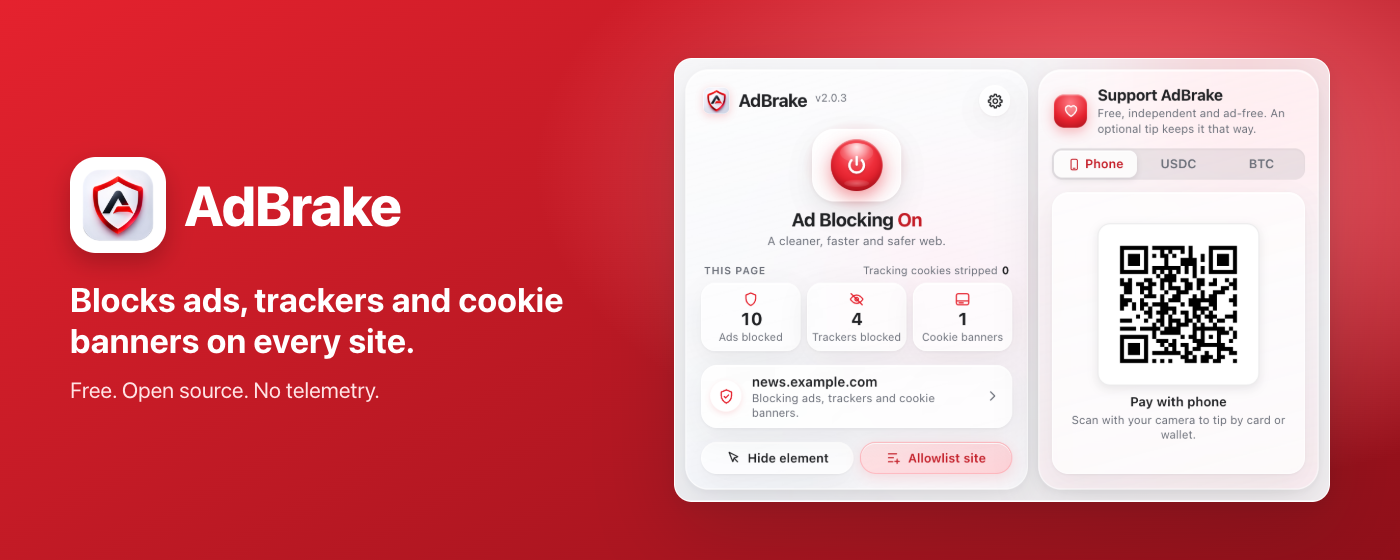
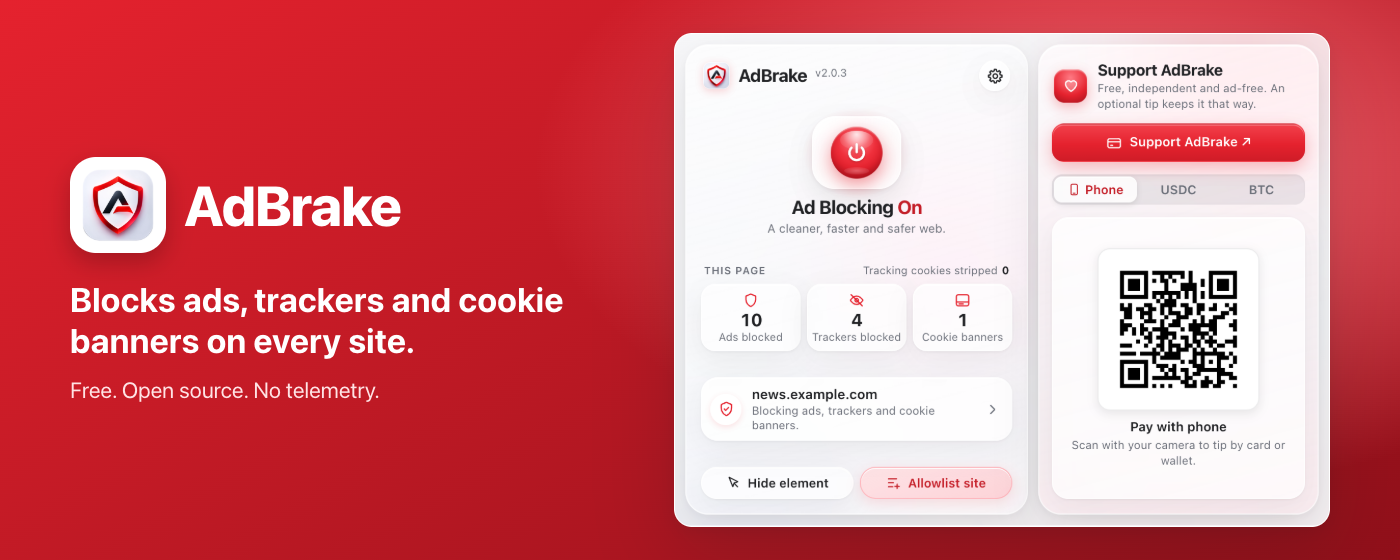
Store images: show the tip button as "Support AdBrake" instead of hiding it
The live popup keeps its card and wallet label; only the store captures relabel it, so the images
name no third-party brand. Shot 5 and shot 3 crops follow the taller support panel.

diff --git a/docs/store/images/src/shot-3-filters-1280x800.html b/docs/store/images/src/shot-3-filters-1280x800.html
@@ -1,1 +1,1 @@
-<!doctype html><html><head><meta charset="utf-8"><link rel="stylesheet" href="style.css"></head><body class=""><div class="wrap"><div class="text "><div class="brand"><img src="icon128.png">AdBrake</div><h1>Hide anything, per site</h1><p class="sub">Click “Hide element”, point at it, done. Turn blocking off for sites you trust.</p><ul class="pts"><li>Point and click to hide an element</li><li>Allow a site with one switch</li><li>Edit your own rules any time</li></ul></div><div class="stage"><div class="stack" style="width:640px;height:687px"><div style="position:absolute;right:0;top:0"><div class="card" style="width:576px;"><div class="bar"><i></i><i></i><i></i><span>AdBrake settings</span></div><div class="crop" style="width:576px;height:583px"><img src="../raw/options-store-light.png" style="width:608px;left:-16px;top:-1198px"></div></div></div><div style="position:absolute;left:-30px;bottom:0"><div class="card" style="width:349px;border-radius:22px;"><div class="crop" style="width:349px;height:132px"><img src="../raw/popup-light.png" style="width:693px;left:-17px;top:-314px"></div></div></div></div></div></div><div class="note">Real capture of AdBrake 2.0.3</div></body></html>
+<!doctype html><html><head><meta charset="utf-8"><link rel="stylesheet" href="style.css"></head><body class=""><div class="wrap"><div class="text "><div class="brand"><img src="icon128.png">AdBrake</div><h1>Hide anything, per site</h1><p class="sub">Click “Hide element”, point at it, done. Turn blocking off for sites you trust.</p><ul class="pts"><li>Point and click to hide an element</li><li>Allow a site with one switch</li><li>Edit your own rules any time</li></ul></div><div class="stage"><div class="stack" style="width:640px;height:687px"><div style="position:absolute;right:0;top:0"><div class="card" style="width:576px;"><div class="bar"><i></i><i></i><i></i><span>AdBrake settings</span></div><div class="crop" style="width:576px;height:583px"><img src="../raw/options-store-light.png" style="width:608px;left:-16px;top:-1198px"></div></div></div><div style="position:absolute;left:-30px;bottom:0"><div class="card" style="width:349px;border-radius:22px;"><div class="crop" style="width:349px;height:169px"><img src="../raw/popup-light.png" style="width:693px;left:-17px;top:-338px"></div></div></div></div></div></div><div class="note">Real capture of AdBrake 2.0.3</div></body></html>

diff --git a/docs/store/images/src/shot-5-support-1280x800.html b/docs/store/images/src/shot-5-support-1280x800.html
@@ -1,1 +1,1 @@
-<!doctype html><html><head><meta charset="utf-8"><link rel="stylesheet" href="style.css"></head><body class=""><div class="wrap"><div class="text "><div class="brand"><img src="icon128.png">AdBrake</div><h1>Free for everyone</h1><p class="sub">Every feature is free, with no ads of its own and no upsell. If it saves you time, an optional tip helps keep it going.</p><ul class="pts"><li>Nothing is locked behind a payment</li><li>Tips are optional; reminders can be turned off</li><li>Filter lists update by themselves</li></ul></div><div class="stage"><div class="card" style="width:383px;border-radius:22px;"><div class="crop" style="width:383px;height:569px"><img src="../raw/popup-light-usdc.png" style="width:869px;left:-477px;top:-8px"></div></div></div></div><div class="note">Real capture of AdBrake 2.0.3</div></body></html>
+<!doctype html><html><head><meta charset="utf-8"><link rel="stylesheet" href="style.css"></head><body class=""><div class="wrap"><div class="text "><div class="brand"><img src="icon128.png">AdBrake</div><h1>Free for everyone</h1><p class="sub">Every feature is free, with no ads of its own and no upsell. If it saves you time, an optional tip helps keep it going.</p><ul class="pts"><li>Nothing is locked behind a payment</li><li>Tips are optional; reminders can be turned off</li><li>Filter lists update by themselves</li></ul></div><div class="stage"><div class="card" style="width:344px;border-radius:22px;"><div class="crop" style="width:344px;height:571px"><img src="../raw/popup-light-usdc.png" style="width:781px;left:-429px;top:-7px"></div></div></div></div><div class="note">Real capture of AdBrake 2.0.3</div></body></html>

diff --git a/tools/store_shots.py b/tools/store_shots.py
@@ -9,8 +9,9 @@
    (popup.html, two panels, 630 px wide) as a background tab in the same window, so the popup reads
    the news tab as "the current tab" and shows its real counts. Captures the popup (light and
    dark) and the settings page (as it is, a store variant, and dark) at 2x. Store variants show
-   no third-party names: the page's host reads news.example.com, the popup's tip button (its
-   label names payment wallets) and settings rows naming other companies are hidden.
+   no third-party names: the page's host reads news.example.com, the popup's tip button reads
+   "Support AdBrake" (its real label names payment wallets) and settings rows naming other
+   companies are hidden.
 3. Writes the composition pages (docs/store/images/src/make_pages.py) and renders them into
    1280x800 screenshots, a 440x280 small promo tile and a 1400x560 marquee (same Chrome).
    --compose-only skips step 1-2 and reuses the captures in <out>/raw/.
@@ -84,8 +85,8 @@ def capture(out_raw, site):
 
         # 2. Popup as a background tab of the same window: tabs.query({active, currentWindow}) = news tab.
         # The popup is two panels side by side (controls | Support AdBrake), 630 px wide.
-        # Store variant: the page's host name is shown as news.example.com and the tip button, whose
-        # label names payment wallets, is hidden with its row, so the images name no third-party brand
+        # Store variant: the page's host name is shown as news.example.com and the tip button's label,
+        # which names payment wallets, reads "Support AdBrake ↗" instead, so the images name no third-party brand
         # (docs/store/review-risks.md). The counts are what the popup really counted on that page.
         for dark in (False, True):
             tid = cdp.send("Target.createTarget", {"url": "about:blank", "background": True})["targetId"]
@@ -98,12 +99,10 @@ def capture(out_raw, site):
             info = cdp.evaluate(sid, "['g-ads','g-trackers','g-banners','g-cookies','site-host']"
                                      ".map(id => id + '=' + document.getElementById(id).textContent)")
             print("popup", "dark" if dark else "light", info)
-            # Hide the whole tip-button row (not just the button), so the panel closes up with no gap.
+            # Keep the tip button (same card icon) but give it a brand-free label in the captures only.
             cdp.evaluate(sid, """(() => {
                 document.getElementById('site-host').textContent = 'news.example.com';
-                const s = document.createElement('style');
-                s.textContent = '#support-revolut { display: none !important; }';
-                document.head.appendChild(s);
+                document.querySelector('#support-link span').textContent = 'Support AdBrake \u2197';
             })()""")
             time.sleep(0.8)
             box = cdp.evaluate(sid, "(() => { const r = document.body.getBoundingClientRect();"

diff --git a/docs/store/images/src/make_pages.py b/docs/store/images/src/make_pages.py
@@ -91,7 +91,7 @@ page("shot-3-filters-1280x800.html", '<div class="wrap">' + text(
     ["Point and click to hide an element", "Allow a site with one switch", "Edit your own rules any time"]) +
     '<div class="stage"><div class="stack" style="width:640px;height:%dpx">' % (34 + (y1 - y0) * s3 + 70) +
     '<div style="position:absolute;right:0;top:0">' + crop("options-store-light.png", y0, y1, s3, bar="AdBrake settings") + '</div>'
-    '<div style="position:absolute;left:-30px;bottom:0">' + pcrop("popup-light.png", 16, 286, 334, 406, 1.1) + '</div>'
+    '<div style="position:absolute;left:-30px;bottom:0">' + pcrop("popup-light.png", 16, 308, 334, 462, 1.1) + '</div>'
     '</div></div></div>' + NOTE)
 
 # 4. Privacy, in dark mode: the popup as the dark theme shows it.
@@ -107,7 +107,7 @@ page("shot-5-support-1280x800.html", '<div class="wrap">' + text(
     "Every feature is free, with no ads of its own and no upsell. If it saves you time, an optional tip helps keep it going.",
     ["Nothing is locked behind a payment", "Tips are optional; reminders can be turned off",
      "Filter lists update by themselves"]) +
-    '<div class="stage">' + pcrop("popup-light-usdc.png", 346, 6, 624, 419, 1.38) + '</div></div>' + NOTE)
+    '<div class="stage">' + pcrop("popup-light-usdc.png", 346, 6, 624, 467, 1.24) + '</div></div>' + NOTE)
 
 # 440x280 small promo tile
 page("promo-small-440x280.html", '<div style="position:absolute;inset:0;background:linear-gradient(150deg,#e5222e,#a5121c);'
